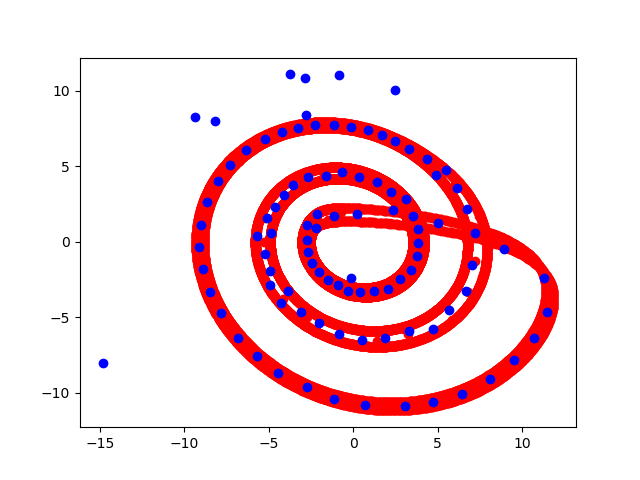
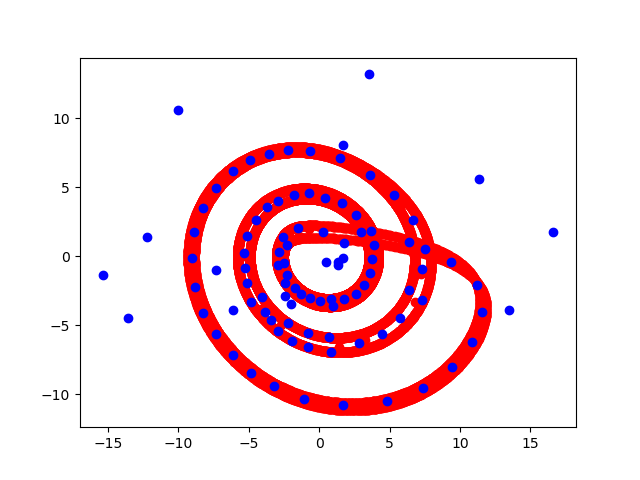
add neural gas

diff --git a/SelfOrganizingMap/KohonenAndNeuralGas/zad_3.py b/SelfOrganizingMap/KohonenAndNeuralGas/zad_3.py
@@ -258,8 +258,8 @@ def plot(list2d, list2d2=None):
 def main():
     kohonen = KohonenOrNeuralGas(input_matrix=read_2d_float_array_from_file("Danetestowe.txt", is_comma=True),
                                  neuron_num=100,
-                                 is_gauss=True, is_neural_gas=True, epoch_count=1, neighbourhood_radius=1.5,
-                                 min_potential=0, alfa=0.8)
+                                 is_gauss=True, is_neural_gas=False, epoch_count=1, neighbourhood_radius=0.1,
+                                 min_potential=0.6, alfa=0.8)
     plot(kohonen.map, read_2d_float_array_from_file("Danetestowe.txt", is_comma=True))
     kohonen.train()
     plot(kohonen.map, read_2d_float_array_from_file("Danetestowe.txt", is_comma=True))

diff --git a/SelfOrganizingMap/README.md b/SelfOrganizingMap/README.md
@@ -4,7 +4,7 @@
 
 ###  [Kohonen and Neural Gas Algorithms](https://github.com/ZdrzalikPrzemyslaw/Machine-Learning/tree/master/SelfOrganizingMap/KohonenAndNeuralGas)
 <p align="center">
-<b>Kohonen</b>
+    <b>Kohonen</b>
 </p>
 
 <table cellpadding="0" cellspacing="0" border="0">
@@ -16,6 +16,23 @@
     <td><img src="https://github.com/ZdrzalikPrzemyslaw/Machine-Learning/blob/master/.github/Kohonen_Before.png"
      alt="Approximation plot"/></td>
     <td><img src="https://github.com/ZdrzalikPrzemyslaw/Machine-Learning/blob/master/.github/Kohonen_After.png"
+     alt="Error plot"/></td>
+  </tr>
+ </table>
+ 
+<p align="center">
+    <b>Neural Gas</b>
+</p>
+
+<table cellpadding="0" cellspacing="0" border="0">
+    <tr>
+    <td><p align="center">before</p></td>
+    <td><p align="center">after</p></td>
+    </tr>
+  <tr>
+    <td><img src="https://github.com/ZdrzalikPrzemyslaw/Machine-Learning/blob/master/.github/NeuralGas_Before.png"
+     alt="Approximation plot"/></td>
+    <td><img src="https://github.com/ZdrzalikPrzemyslaw/Machine-Learning/blob/master/.github/NeuralGas_After.png"
      alt="Error plot"/></td>
   </tr>
  </table>
